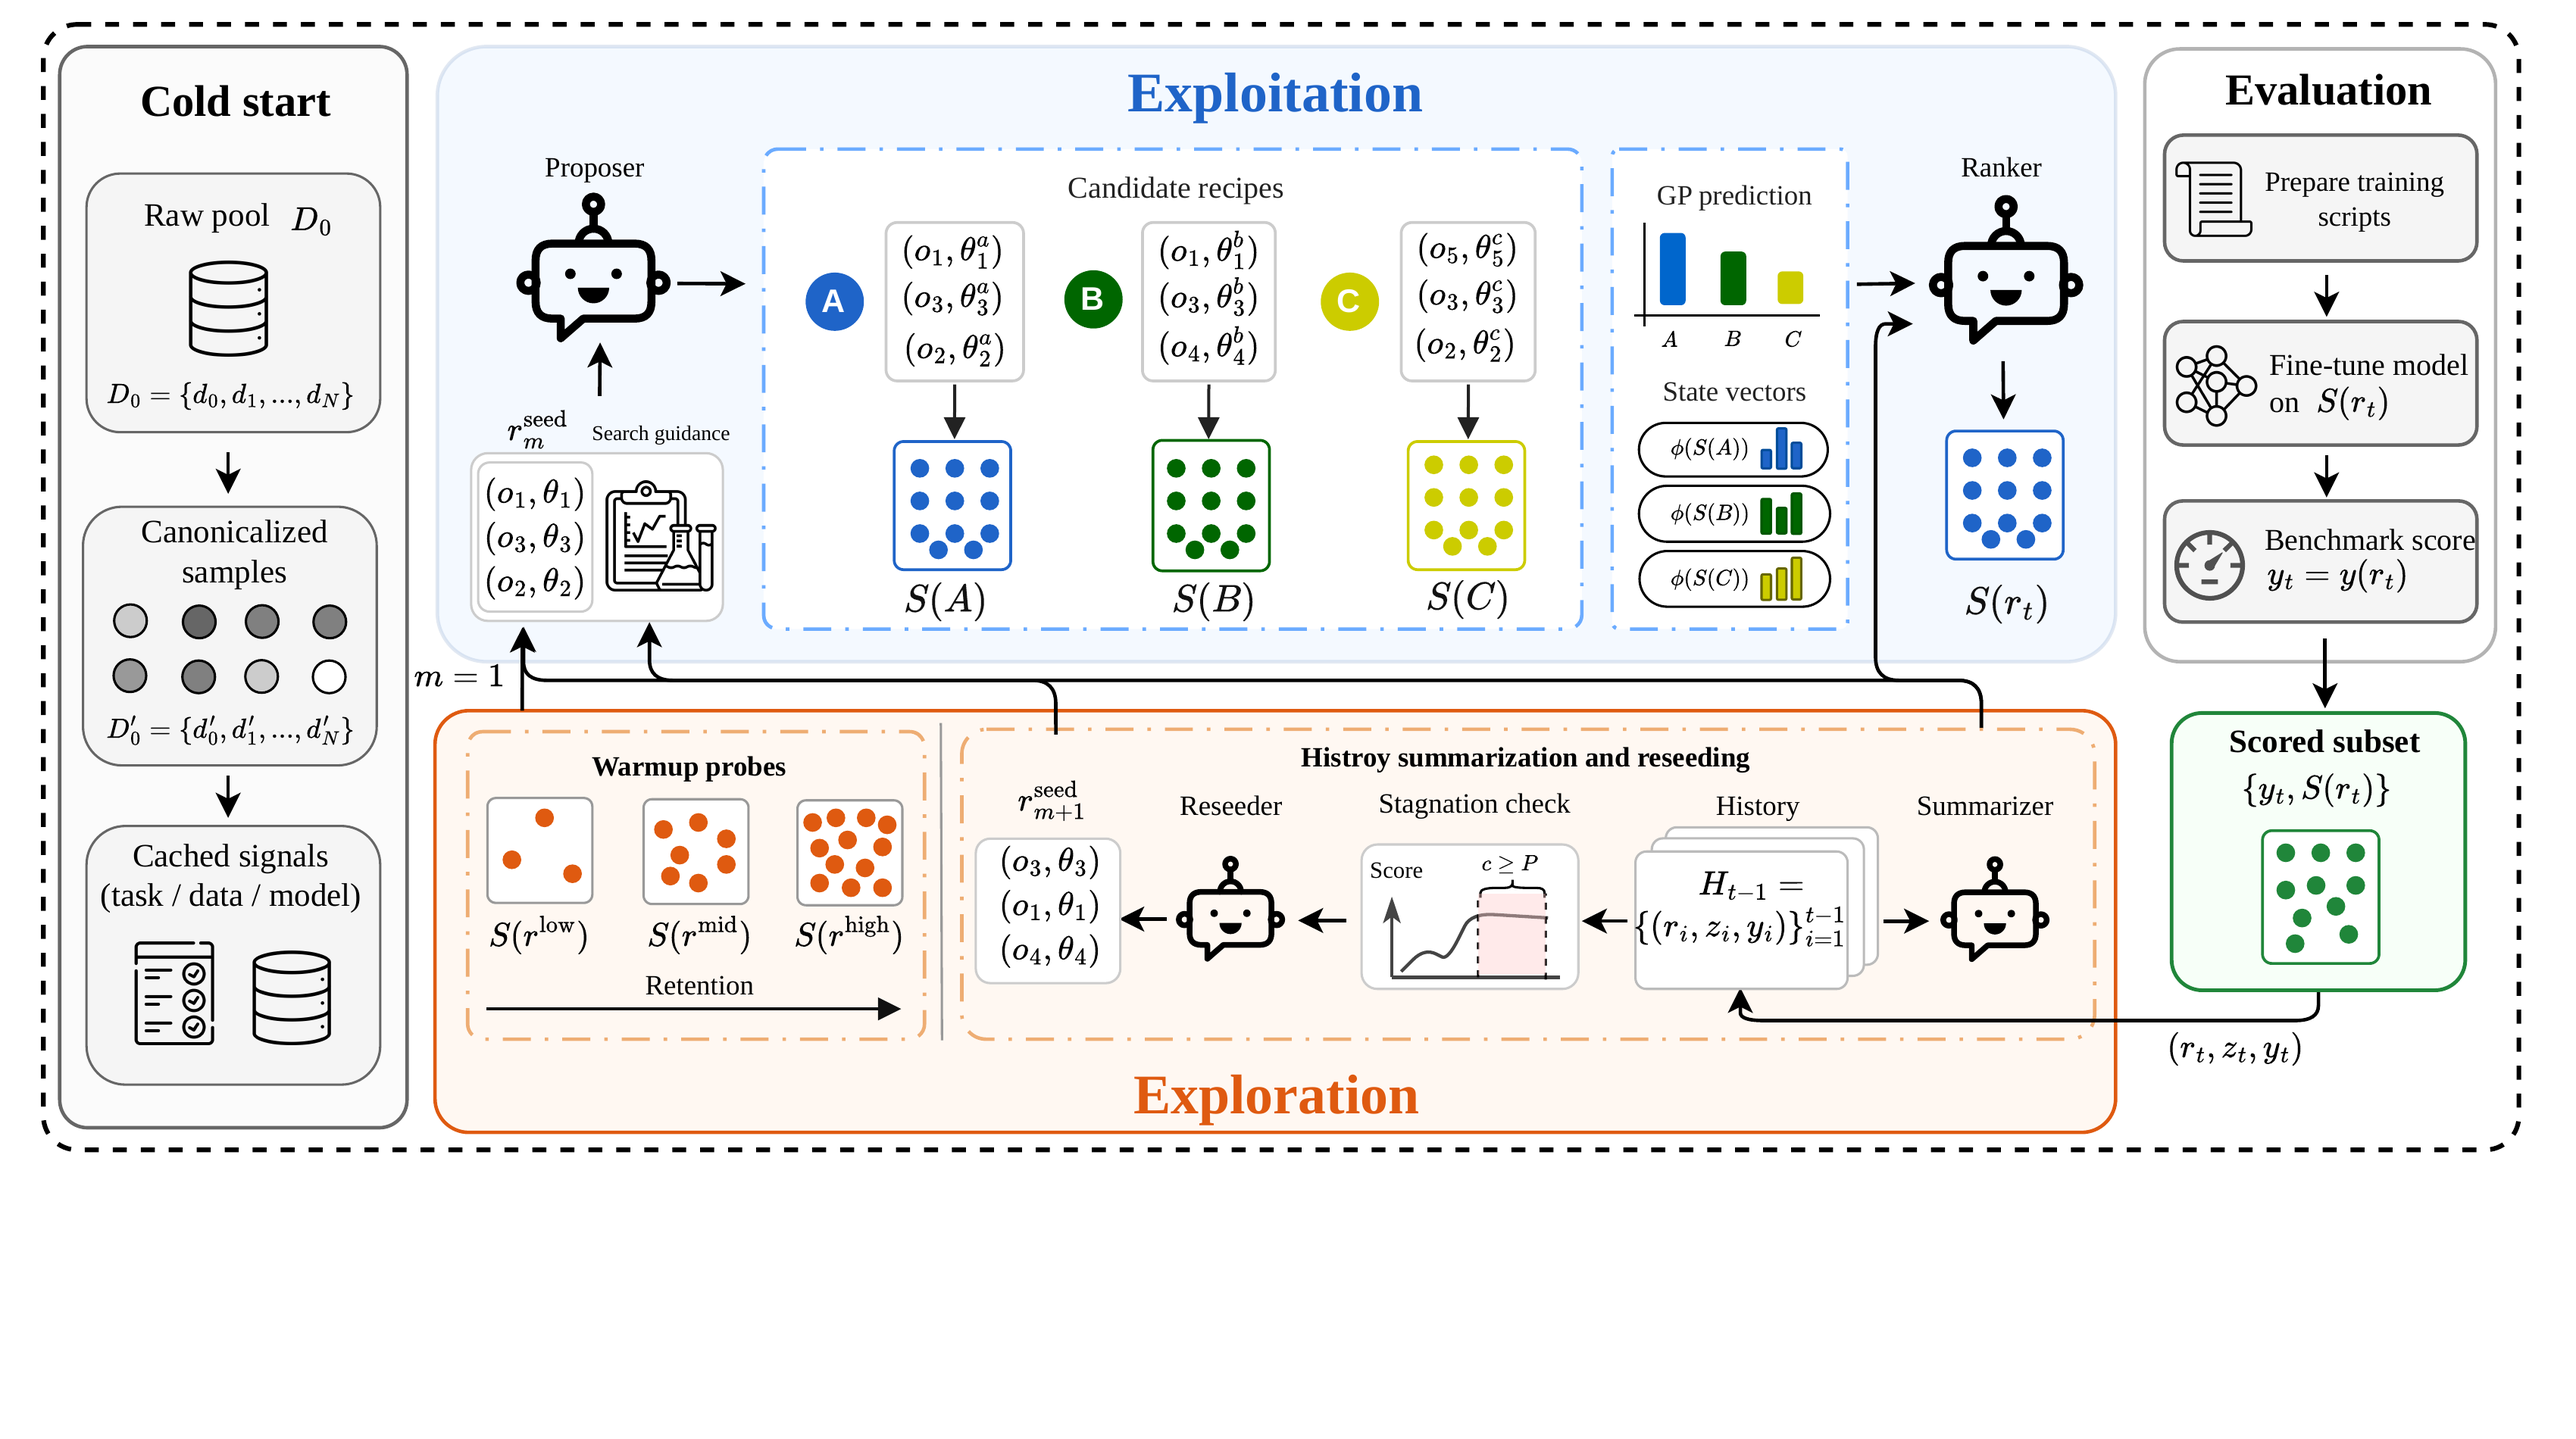
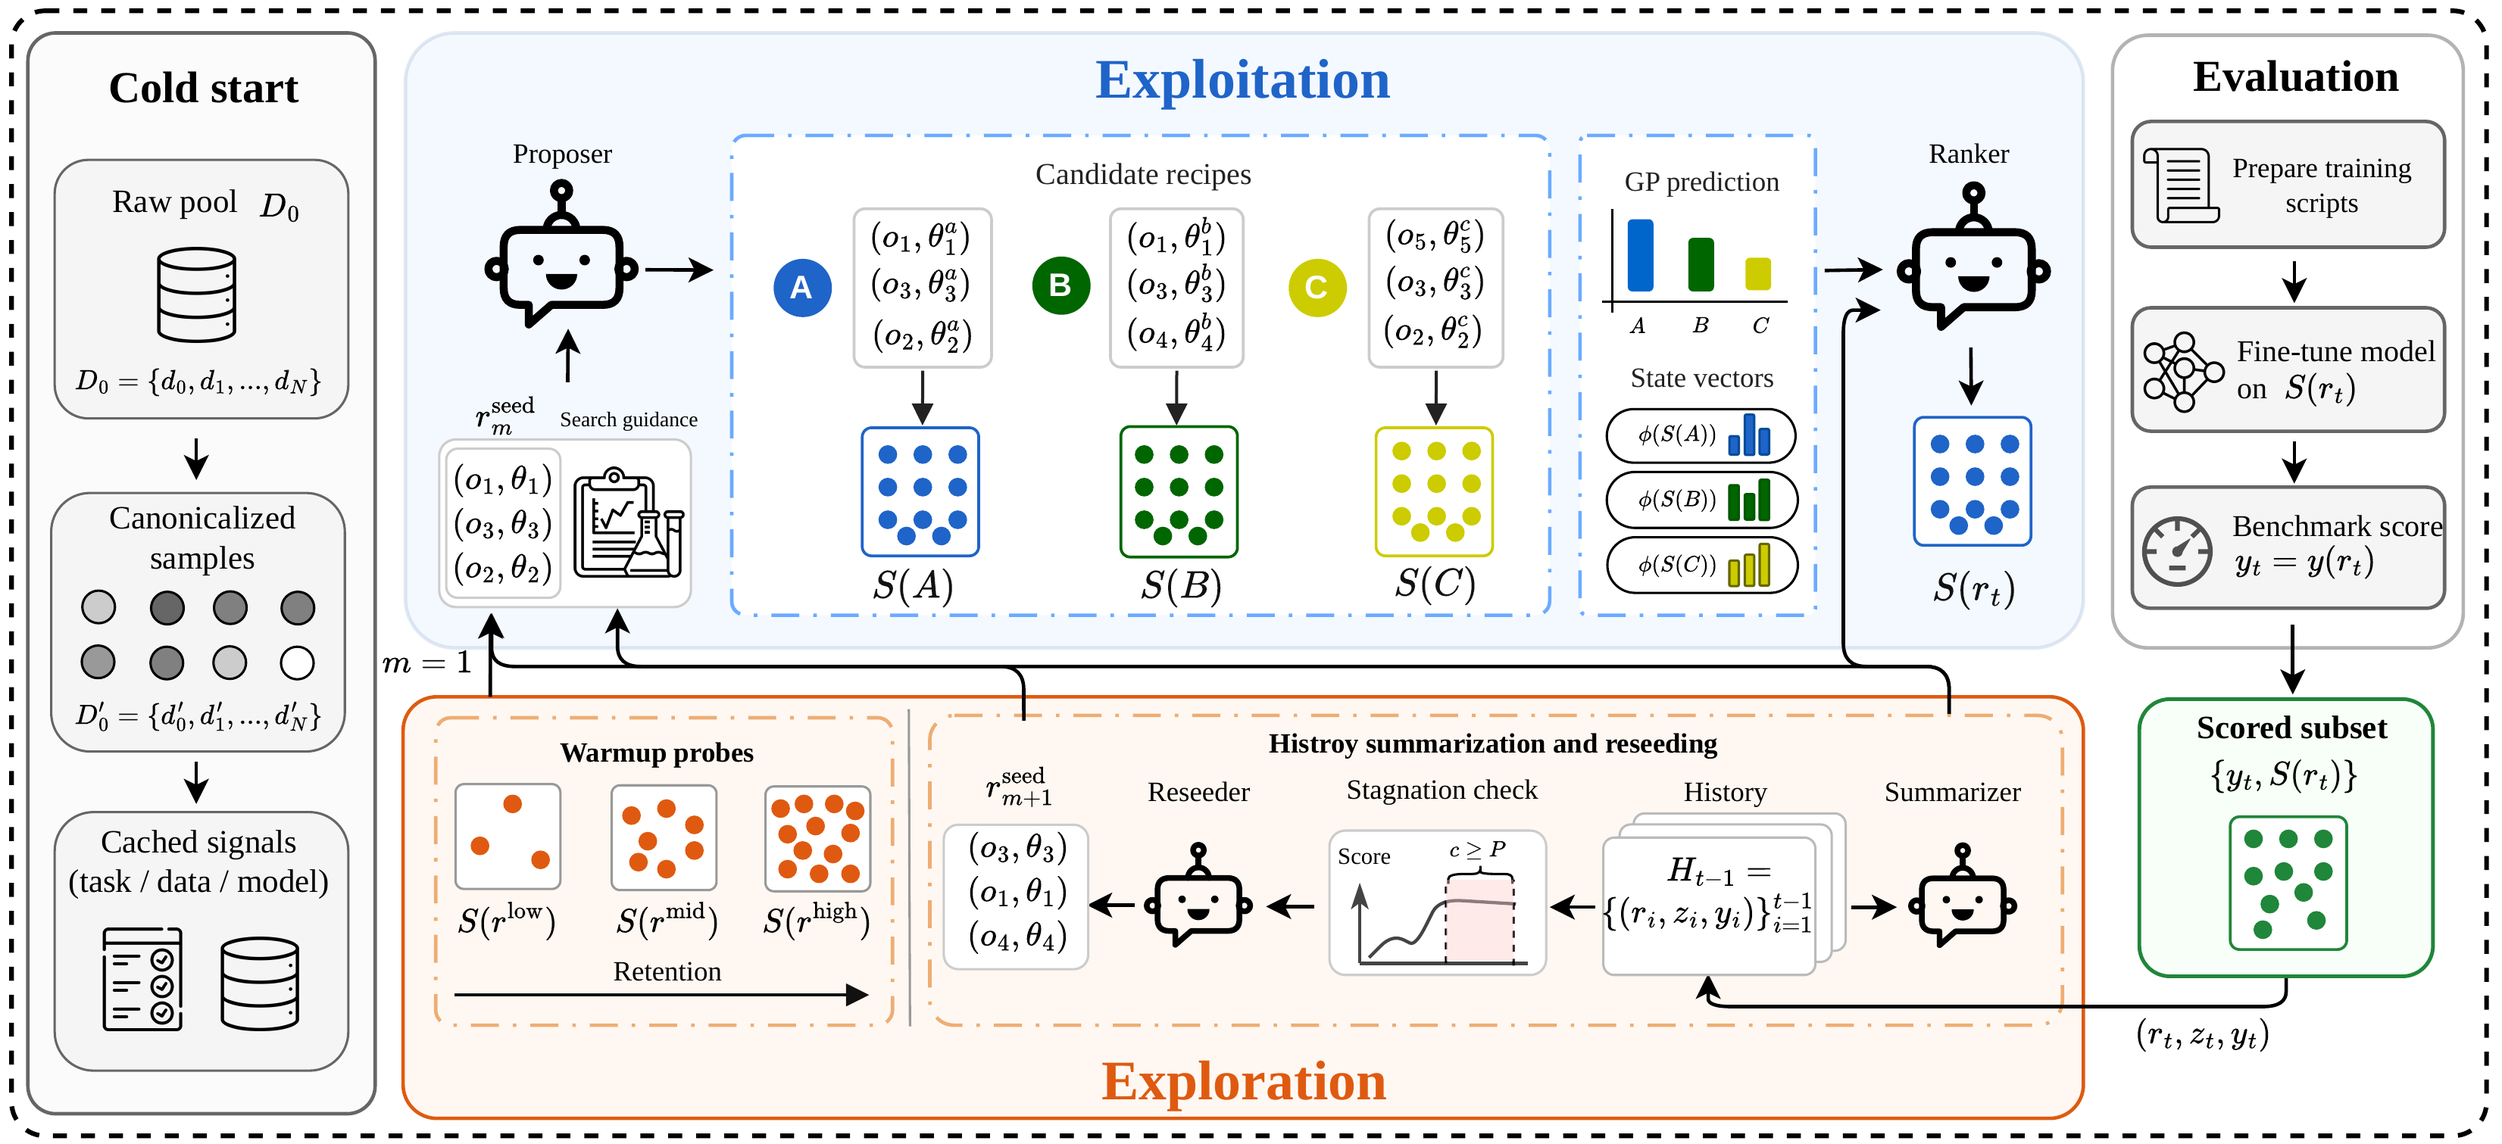
docs: document core environment versions

diff --git a/README.md b/README.md
@@ -29,8 +29,15 @@ recipe_sandbox/
 
 ## 2. Environment Setup
 
-Use Python 3.10 or newer. Install the accelerator-specific `torch`, `vllm`,
-and `LLaMA-Factory` builds that match your CUDA/NPU cluster.
+Use Python 3.10 or newer. The two core runtime dependencies are:
+
+```text
+LLaMA-Factory 0.9.5.dev0
+vLLM          0.10.0
+```
+
+Install the accelerator-specific `torch` build that matches your CUDA/NPU
+cluster, then install the supporting Python packages used by the pipeline.
 
 Example:
 
@@ -40,7 +47,8 @@ conda activate autosel
 pip install -U pip
 
 pip install numpy scipy scikit-learn pyyaml tqdm pandas pyarrow datasets openai
-pip install torch transformers accelerate peft deepspeed vllm llamafactory
+pip install torch transformers accelerate peft deepspeed
+pip install vllm==0.10.0 llamafactory==0.9.5.dev0
 ```
 
 For Ascend/NPU environments, also install the matching `torch-npu` package and
@@ -50,7 +58,7 @@ set `ASCEND_RT_VISIBLE_DEVICES` as needed. For CUDA environments, set
 Make sure these commands are available before running the full pipeline:
 
 ```bash
-python -c "import sklearn, torch, transformers, vllm"
+python -c "import sklearn, torch, transformers, vllm; print(vllm.__version__)"
 llamafactory-cli --help
 ```
 
